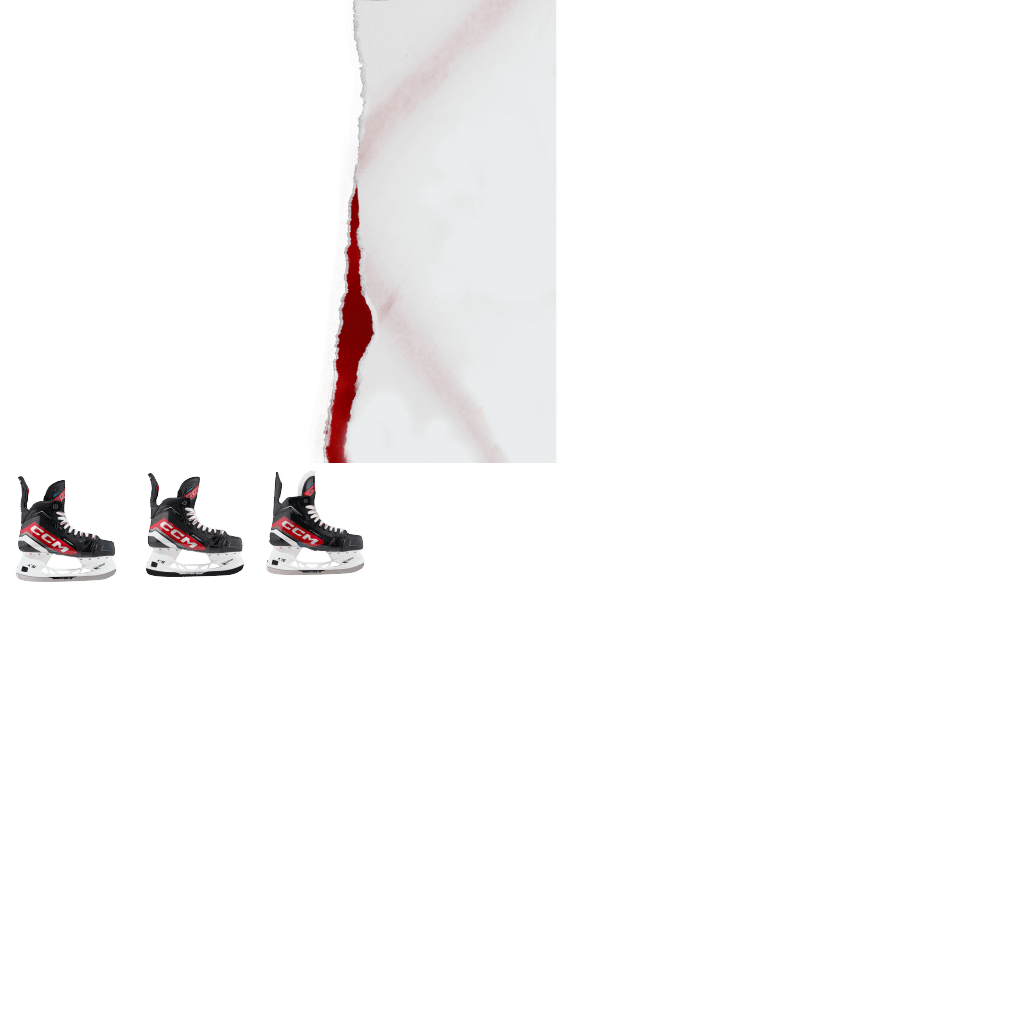
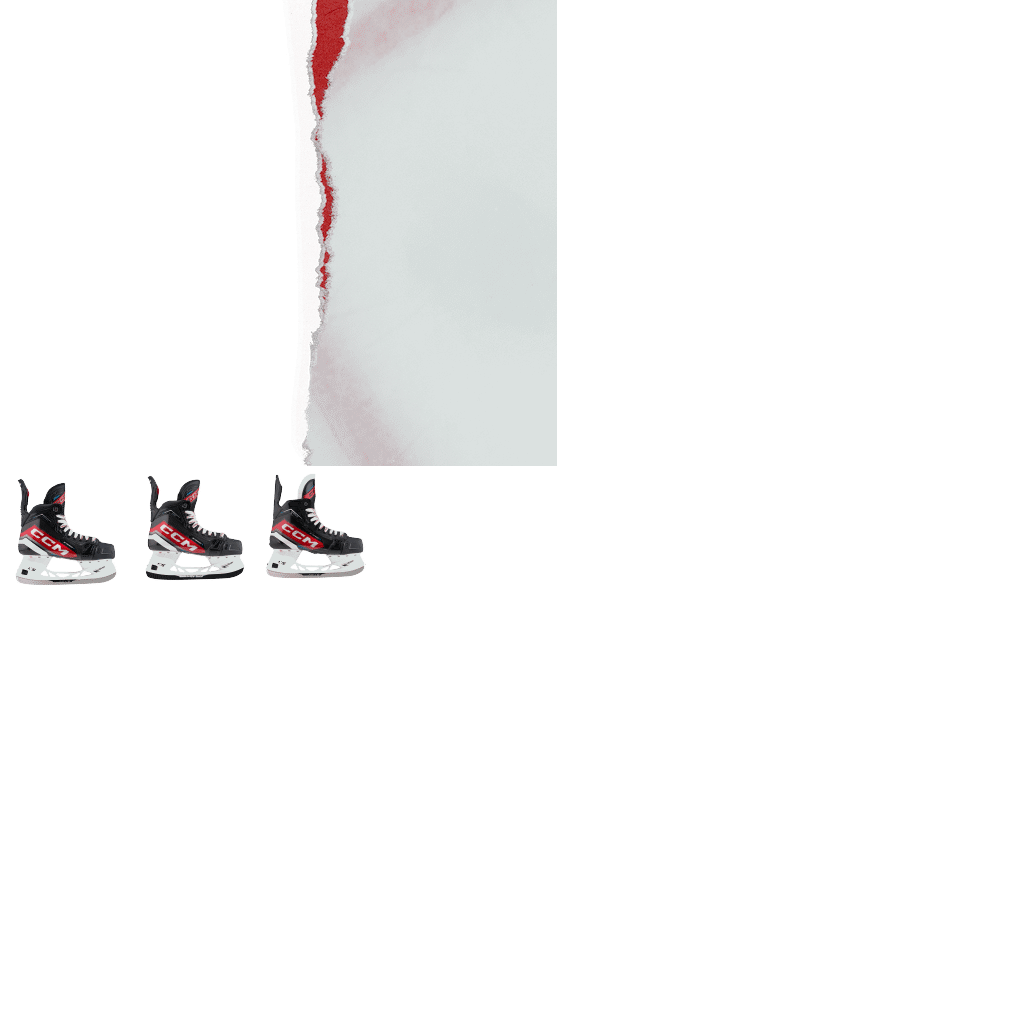
jetfam new rips

Changed region(s): [[0.0, 0.0, 0.4375, 0.5938]]

diff --git a/SFS_2023/jetfam_728x90_en/jetfam_728x90_en.js b/SFS_2023/jetfam_728x90_en/jetfam_728x90_en.js
@@ -3,7 +3,7 @@
 var p; // shortcut to reference prototypes
 var lib={};var ss={};var img={};
 lib.ssMetadata = [
-		{name:"jetfam_728x90_en_atlas_P_1", frames: [[1463,0,131,130],[1596,0,121,121],[1719,0,121,121],[0,0,1461,185]]}
+		{name:"jetfam_728x90_en_atlas_P_1", frames: [[0,126,131,130],[133,126,121,121],[256,126,121,121],[0,0,1000,124]]}
 ];
 
 
@@ -348,13 +348,13 @@ if (reversed == null) { reversed = false; }
 
 	// Layer_1
 	this.instance = new lib.Asset8jetfamTearLB();
-	this.instance.setTransform(0,0,0.5005,0.5005);
+	this.instance.setTransform(-10,0,0.7424,0.7424);
 
 	this.timeline.addTween(cjs.Tween.get(this.instance).wait(1));
 
 	this._renderFirstFrame();
 
-}).prototype = getMCSymbolPrototype(lib.rip, new cjs.Rectangle(0,0,731.3,92.6), null);
+}).prototype = getMCSymbolPrototype(lib.rip, new cjs.Rectangle(-10,0,742.4,92.1), null);
 
 
 (lib.ClipGroup = function(mode,startPosition,loop,reversed) {
@@ -810,7 +810,7 @@ if (reversed == null) { reversed = false; }
 
 	// rip
 	this.instance_9 = new lib.rip();
-	this.instance_9.setTransform(363.7,45.3,1,1,0,0,0,365.7,46.3);
+	this.instance_9.setTransform(373.7,45.3,1,1,0,0,0,365.7,46.3);
 
 	this.timeline.addTween(cjs.Tween.get(this.instance_9).wait(243).to({x:683.7},24,cjs.Ease.quartInOut).to({_off:true},1).wait(75));
 
@@ -824,7 +824,7 @@ if (reversed == null) { reversed = false; }
 	this._renderFirstFrame();
 
 }).prototype = p = new lib.AnMovieClip();
-p.nominalBounds = new cjs.Rectangle(-108.1,44,1157.3999999999999,47.599999999999994);
+p.nominalBounds = new cjs.Rectangle(-108.1,44,1158.5,47.099999999999994);
 // library properties:
 lib.properties = {
 	id: '758E0282264D47629A39BAD509FAEF4B',

diff --git a/SFS_2023/jetfam_300x600_en/jetfam_300x600_en.js b/SFS_2023/jetfam_300x600_en/jetfam_300x600_en.js
@@ -3,7 +3,7 @@
 var p; // shortcut to reference prototypes
 var lib={};var ss={};var img={};
 lib.ssMetadata = [
-		{name:"jetfam_300x600_en_atlas_P_1", frames: [[0,0,557,1110],[0,1112,131,130],[133,1112,121,121],[256,1112,121,121]]}
+		{name:"jetfam_300x600_en_atlas_P_1", frames: [[0,0,557,1114],[0,1116,131,130],[133,1116,121,121],[256,1116,121,121]]}
 ];
 
 
@@ -222,13 +222,13 @@ if (reversed == null) { reversed = false; }
 
 	// Layer_1
 	this.instance = new lib.Asset1tearDBL();
-	this.instance.setTransform(0,0,0.5441,0.5441);
+	this.instance.setTransform(0,60,0.5441,0.5441);
 
 	this.timeline.addTween(cjs.Tween.get(this.instance).wait(1));
 
 	this._renderFirstFrame();
 
-}).prototype = getMCSymbolPrototype(lib.tear, new cjs.Rectangle(0,0,303.1,604), null);
+}).prototype = getMCSymbolPrototype(lib.tear, new cjs.Rectangle(0,60,303.1,606.2), null);
 
 
 (lib.skate3 = function(mode,startPosition,loop,reversed) {
@@ -923,7 +923,7 @@ if (reversed == null) { reversed = false; }
 	this._renderFirstFrame();
 
 }).prototype = p = new lib.AnMovieClip();
-p.nominalBounds = new cjs.Rectangle(-109.6,297,547.2,672.8);
+p.nominalBounds = new cjs.Rectangle(-109.6,300,547.2,731.9000000000001);
 // library properties:
 lib.properties = {
 	id: '758E0282264D47629A39BAD509FAEF4B',

diff --git a/SFS_2023/jetfam_336x280_en/jetfam_336x280_en.js b/SFS_2023/jetfam_336x280_en/jetfam_336x280_en.js
@@ -3,7 +3,7 @@
 var p; // shortcut to reference prototypes
 var lib={};var ss={};var img={};
 lib.ssMetadata = [
-		{name:"jetfam_336x280_en_atlas_P_1", frames: [[0,465,131,130],[133,465,121,121],[256,465,121,121],[0,0,557,463]]}
+		{name:"jetfam_336x280_en_atlas_P_1", frames: [[0,468,131,130],[133,468,121,121],[256,468,121,121],[0,0,557,466]]}
 ];
 
 
@@ -288,13 +288,13 @@ if (reversed == null) { reversed = false; }
 
 	// Layer_1
 	this.instance = new lib.Asset6tearBB();
-	this.instance.setTransform(0,0,0.5452,0.5452);
+	this.instance.setTransform(18,0,0.5452,0.5452);
 
 	this.timeline.addTween(cjs.Tween.get(this.instance).wait(1));
 
 	this._renderFirstFrame();
 
-}).prototype = getMCSymbolPrototype(lib.rip, new cjs.Rectangle(0,0,303.7,252.5), null);
+}).prototype = getMCSymbolPrototype(lib.rip, new cjs.Rectangle(18,0,303.7,254.1), null);
 
 
 (lib.logo_en_stacked = function(mode,startPosition,loop,reversed) {
@@ -923,7 +923,7 @@ if (reversed == null) { reversed = false; }
 	this._renderFirstFrame();
 
 }).prototype = p = new lib.AnMovieClip();
-p.nominalBounds = new cjs.Rectangle(-124.5,138.9,633.8,533.1);
+p.nominalBounds = new cjs.Rectangle(-124.5,138.9,653.9,533.1);
 // library properties:
 lib.properties = {
 	id: '758E0282264D47629A39BAD509FAEF4B',

diff --git a/SFS_2023/jetfam_300x250_en/jetfam_300x250_en.js b/SFS_2023/jetfam_300x250_en/jetfam_300x250_en.js
@@ -3,7 +3,7 @@
 var p; // shortcut to reference prototypes
 var lib={};var ss={};var img={};
 lib.ssMetadata = [
-		{name:"jetfam_300x250_en_atlas_P_1", frames: [[0,465,131,130],[133,465,121,121],[256,465,121,121],[0,0,557,463]]}
+		{name:"jetfam_300x250_en_atlas_P_1", frames: [[0,468,131,130],[133,468,121,121],[256,468,121,121],[0,0,557,466]]}
 ];
 
 
@@ -288,13 +288,13 @@ if (reversed == null) { reversed = false; }
 
 	// Layer_1
 	this.instance = new lib.Asset6tearBB();
-	this.instance.setTransform(0,0,0.5452,0.5452);
+	this.instance.setTransform(20,0,0.5452,0.5452);
 
 	this.timeline.addTween(cjs.Tween.get(this.instance).wait(1));
 
 	this._renderFirstFrame();
 
-}).prototype = getMCSymbolPrototype(lib.rip, new cjs.Rectangle(0,0,303.7,252.5), null);
+}).prototype = getMCSymbolPrototype(lib.rip, new cjs.Rectangle(20,0,303.7,254.1), null);
 
 
 (lib.logo_en_stacked = function(mode,startPosition,loop,reversed) {
@@ -923,7 +923,7 @@ if (reversed == null) { reversed = false; }
 	this._renderFirstFrame();
 
 }).prototype = p = new lib.AnMovieClip();
-p.nominalBounds = new cjs.Rectangle(-109.6,124,564.3,476);
+p.nominalBounds = new cjs.Rectangle(-109.6,124,584.3,476);
 // library properties:
 lib.properties = {
 	id: '758E0282264D47629A39BAD509FAEF4B',
